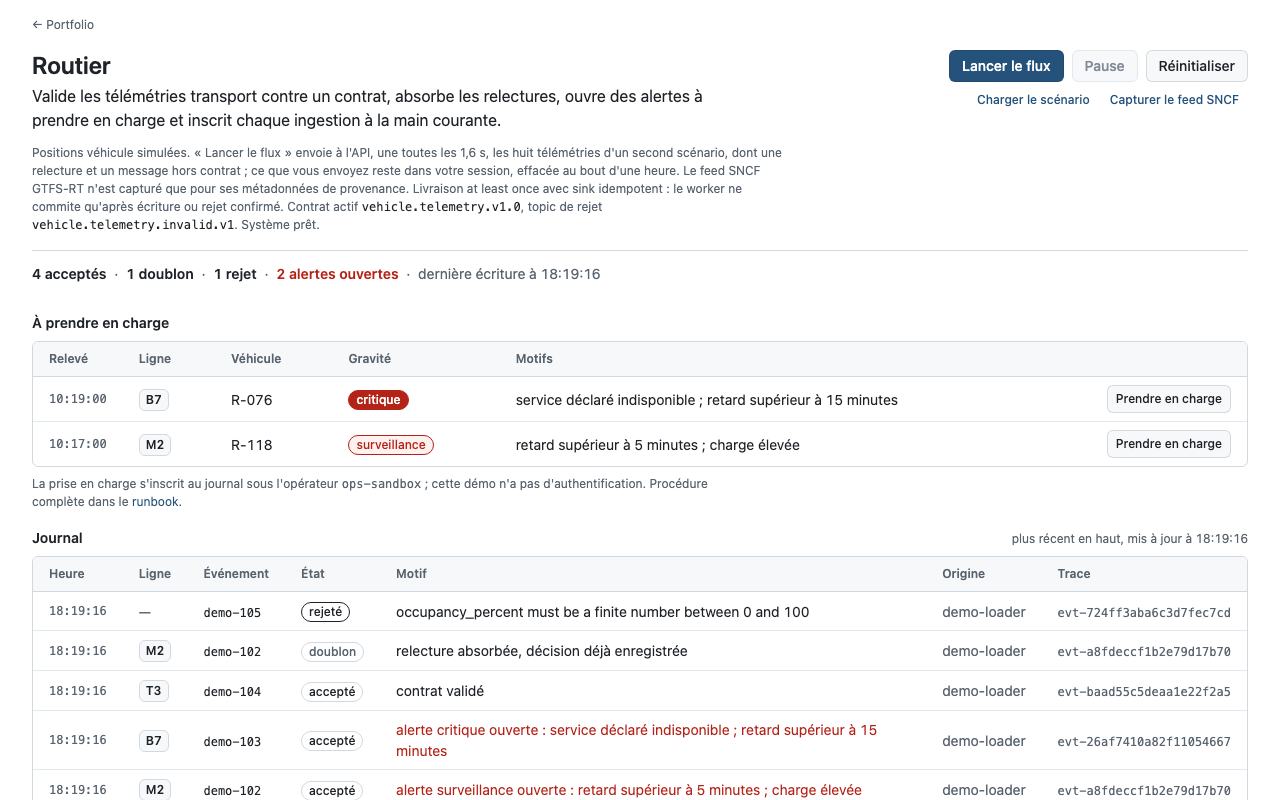
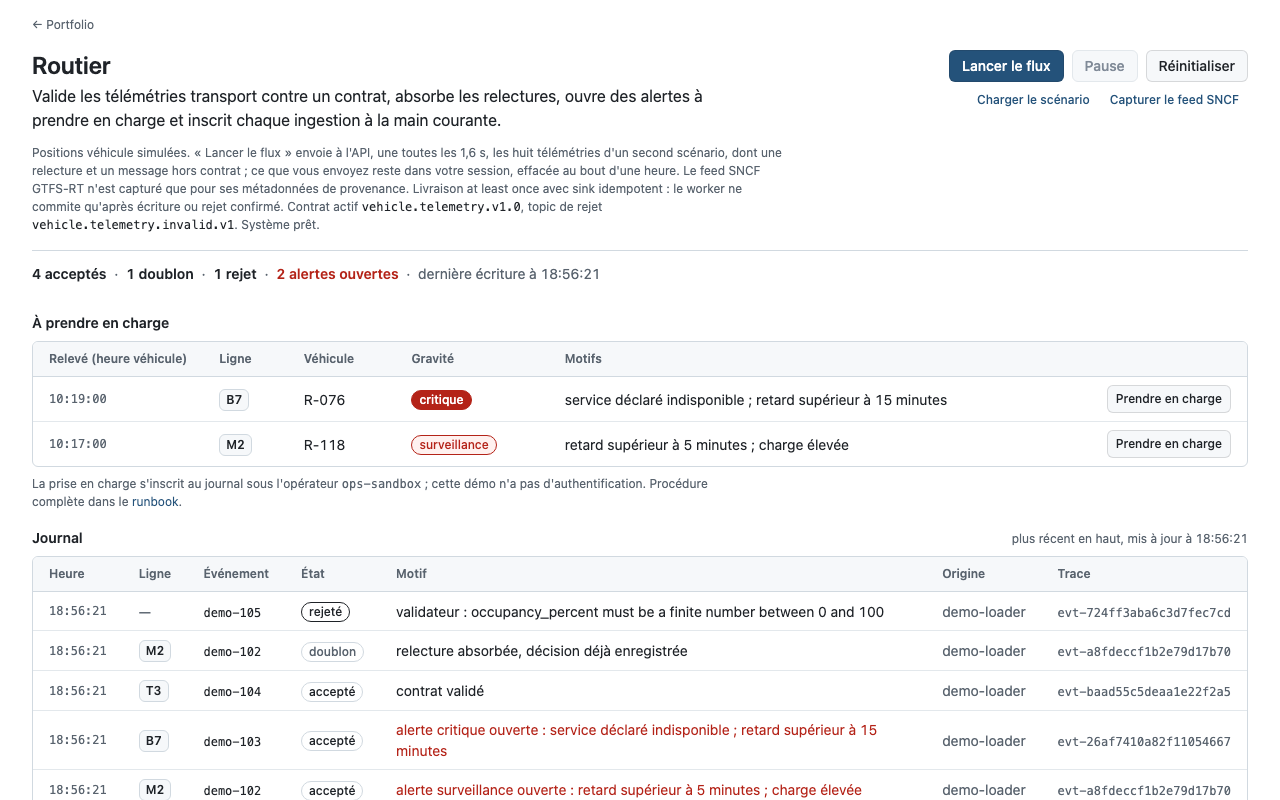
Lever les ambiguïtés de la main courante et fiabiliser l'adresse du rate limit
« Relevé » montrait l'heure du véhicule à côté des heures d'écriture du
journal, sans le dire : l'en-tête précise maintenant « heure véhicule »,
rappelé sur chaque fiche quand l'en-tête est masqué. Les motifs de rejet,
texte brut du validateur, sont préfixés « validateur : ». Sous 620 px, le
journal passe en lignes empilées comme les alertes au lieu de défiler.

Le rate limit par IP lisait la première valeur de X-Forwarded-For, que
le client peut forger pour changer de compteur à chaque requête. Il
prend True-Client-IP, sinon la valeur la plus à droite, ajoutée par le
dernier proxy, sinon l'adresse de connexion ; client_ip() est testée.

diff --git a/web/style.css b/web/style.css
@@ -123,12 +123,23 @@ footer { display: flex; flex-wrap: wrap; justify-content: space-between; gap: 6p
   .back, .head, main, footer { width: calc(100% - 32px); }
   .block-head { flex-direction: column; gap: 2px; }
   td, th { padding: 8px 12px; }
-  .log td:nth-child(5) { min-width: 15em; }
-  .log th:nth-child(6), .log td:nth-child(6), .log th:nth-child(7), .log td:nth-child(7) { display: none; }
+  /* Journal et alertes en lignes empilées : heure, ligne, identifiant et état
+     sur une rangée, motif dessous, origine et trace en dernier. */
+  .log thead { position: absolute; width: 1px; height: 1px; overflow: hidden; clip: rect(0 0 0 0); }
+  .log tr { display: flex; flex-wrap: wrap; align-items: center; gap: 4px 10px; padding: 10px 12px; border-top: 1px solid var(--border-muted); }
+  .log tbody tr:first-child { border-top: 0; }
+  .log tbody tr td { width: auto; padding: 0; border: 0; background: transparent; }
+  .log tbody tr.fresh { background: var(--fresh); }
+  .log td:nth-child(5) { flex-basis: 100%; }
+  .log td:nth-child(6), .log td:nth-child(7) { font-size: 12px; }
+  .log td:nth-child(7) code { white-space: normal; overflow-wrap: anywhere; }
+  .log td.empty { flex-basis: 100%; }
   .queue thead { position: absolute; width: 1px; height: 1px; overflow: hidden; clip: rect(0 0 0 0); }
   .queue tr { display: flex; flex-wrap: wrap; align-items: center; gap: 6px 10px; padding: 12px; border-top: 1px solid var(--border-muted); }
   .queue tbody tr:first-child { border-top: 0; }
   .queue tbody tr td { width: auto; padding: 0; border: 0; background: transparent; }
+  /* L'en-tête est masqué en lignes empilées : on rappelle de quelle heure il s'agit. */
+  .queue td.time::after { content: " heure véhicule"; font-family: var(--sans); }
   .queue td:nth-child(5), .queue td.action { flex-basis: 100%; width: auto; text-align: left; }
 }
 

diff --git a/web/index.html b/web/index.html
@@ -37,7 +37,7 @@
       <h2 id="queue-title">À prendre en charge</h2>
       <div class="table-wrap">
         <table class="queue">
-          <thead><tr><th scope="col" class="col-time">Relevé</th><th scope="col">Ligne</th><th scope="col">Véhicule</th><th scope="col">Gravité</th><th scope="col">Motifs</th><th scope="col" class="col-action"><span class="sr-only">Action</span></th></tr></thead>
+          <thead><tr><th scope="col" class="col-time">Relevé (heure véhicule)</th><th scope="col">Ligne</th><th scope="col">Véhicule</th><th scope="col">Gravité</th><th scope="col">Motifs</th><th scope="col" class="col-action"><span class="sr-only">Action</span></th></tr></thead>
           <tbody id="alert-list"></tbody>
         </table>
       </div>

diff --git a/web/format.js b/web/format.js
@@ -16,7 +16,7 @@
     const id = message && typeof message.event_id === 'string' ? message.event_id : 'message sans identifiant';
     const line = message && typeof message.route_id === 'string' ? `, ligne ${message.route_id}` : '';
     if (!payload || payload.status === 'rejected') {
-      return `${id}${line} : rejeté, ${payload && payload.error ? payload.error : 'motif inconnu'}.`;
+      return `${id}${line} : rejeté, ${payload && payload.error ? `validateur : ${payload.error}` : 'motif inconnu'}.`;
     }
     if (payload.status === 'duplicate') return `${id}${line} : relecture absorbée, aucun doublon écrit.`;
     const decision = payload.decision || {};

diff --git a/web/app.js b/web/app.js
@@ -86,7 +86,8 @@ function renderAudit(audit, overview) {
   const rows = audit.items || [];
   document.querySelector('#audit-list').innerHTML = rows.length ? rows.map(item => {
     const event = events.get(item.event_id);
-    let motive = escapeHtml(item.reason || 'contrat validé');
+    // Les motifs de rejet sont le texte brut du validateur de contrat.
+    let motive = item.outcome === 'rejected' && item.reason ? `validateur : ${escapeHtml(item.reason)}` : escapeHtml(item.reason || 'contrat validé');
     let stateClass = '';
     if (item.outcome === 'accepted' && event && event.severity !== 'none') {
       const open = isOpen(event);

diff --git a/src/routier/server.py b/src/routier/server.py
@@ -91,6 +91,21 @@ def submit(raw_event: object, trace_id: str, origin: str, path: Path | None = No
         return HTTPStatus.UNPROCESSABLE_ENTITY, {"status": "rejected", "trace_id": trace_id, "event_id": event_id, "error": str(exc)}
 
 
+def client_ip(headers, peer: str) -> str:
+    """Adresse servant au rate limit.
+
+    True-Client-IP quand le proxy le pose. Sinon la valeur la plus à droite de
+    X-Forwarded-For : c'est celle qu'a ajoutée le dernier proxy, les valeurs
+    plus à gauche viennent du client et peuvent être forgées pour changer de
+    compteur à chaque requête. Sinon l'adresse de la connexion.
+    """
+    true_client = (headers.get("True-Client-IP") or "").strip()
+    if true_client:
+        return true_client
+    hops = [hop.strip() for hop in (headers.get("X-Forwarded-For") or "").split(",") if hop.strip()]
+    return hops[-1] if hops else peer
+
+
 def seed_reference(path: Path) -> None:
     for message in reference_messages():
         submit(message, _trace_id(message, None), "demo-loader", path)
@@ -130,12 +145,7 @@ class Handler(SimpleHTTPRequestHandler):
         return payload
 
     def _client_ip(self) -> str:
-        # Adresse du visiteur posée par le proxy (True-Client-IP), sinon la première de X-Forwarded-For.
-        true_client = self.headers.get("True-Client-IP", "").strip()
-        if true_client:
-            return true_client
-        forwarded = self.headers.get("X-Forwarded-For", "")
-        return forwarded.split(",")[0].strip() or self.client_address[0]
+        return client_ip(self.headers, self.client_address[0])
 
     def _session(self) -> str | None:
         return self.headers.get(SESSION_HEADER)

diff --git a/tests/test_server.py b/tests/test_server.py
@@ -132,6 +132,26 @@ class StreamTests(ServerCase):
         self.assertEqual(codes, [200, 200, 429])
 
 
+class ClientIpTests(unittest.TestCase):
+    def test_true_client_ip_wins(self):
+        headers = {"True-Client-IP": "203.0.113.7", "X-Forwarded-For": "198.51.100.1, 10.0.0.2"}
+        self.assertEqual(server.client_ip(headers, "10.0.0.9"), "203.0.113.7")
+
+    def test_rightmost_forwarded_value_is_used(self):
+        # La valeur de gauche est forgeable par le client : elle ne doit pas compter.
+        headers = {"X-Forwarded-For": "1.2.3.4, 198.51.100.1, 10.0.0.2"}
+        self.assertEqual(server.client_ip(headers, "10.0.0.9"), "10.0.0.2")
+
+    def test_connection_address_without_headers(self):
+        self.assertEqual(server.client_ip({}, "10.0.0.9"), "10.0.0.9")
+        self.assertEqual(server.client_ip({"X-Forwarded-For": " , "}, "10.0.0.9"), "10.0.0.9")
+
+    def test_forged_left_values_share_one_counter(self):
+        server_limit = RateLimiter(2)
+        keys = [server.client_ip({"X-Forwarded-For": f"9.9.9.{n}, 198.51.100.1"}, "10.0.0.9") for n in range(3)]
+        self.assertEqual([server_limit.allow(key) for key in keys], [True, True, False])
+
+
 class RateLimiterTests(unittest.TestCase):
     def test_window_slides(self):
         clock = [0.0]

diff --git a/tests/test_web.py b/tests/test_web.py
@@ -35,7 +35,7 @@ class FormatTests(unittest.TestCase):
         self.assertEqual(texts["accepted_alert"], "flux-203, ligne B7 : accepté, alerte critique ouverte.")
         self.assertEqual(texts["accepted_quiet"], "flux-203, ligne B7 : accepté, rien à signaler.")
         self.assertEqual(texts["duplicate"], "flux-203, ligne B7 : relecture absorbée, aucun doublon écrit.")
-        self.assertIn("rejeté, delay_seconds", texts["rejected"])
+        self.assertIn("rejeté, validateur : delay_seconds", texts["rejected"])
 
     def test_run_summary_counts_real_statuses(self):
         summary = run_node("f.summarizeRun(['accepted', 'accepted', 'duplicate', 'rejected'])")
